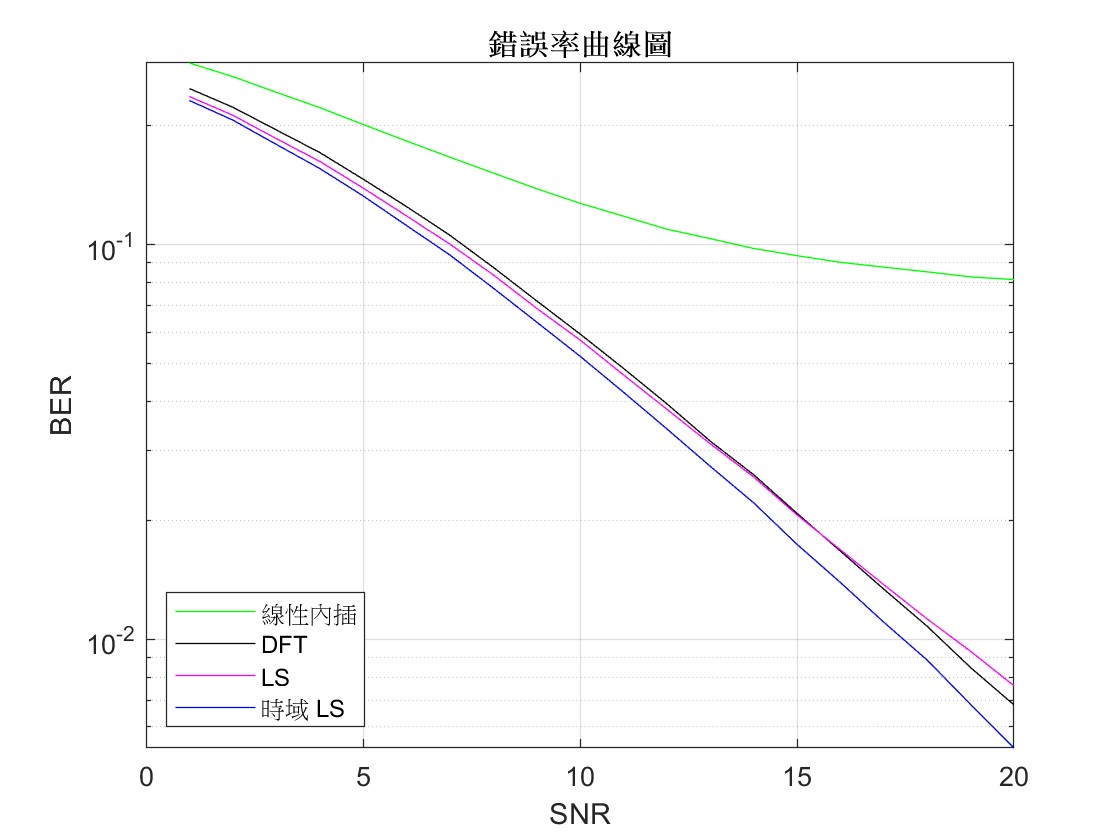
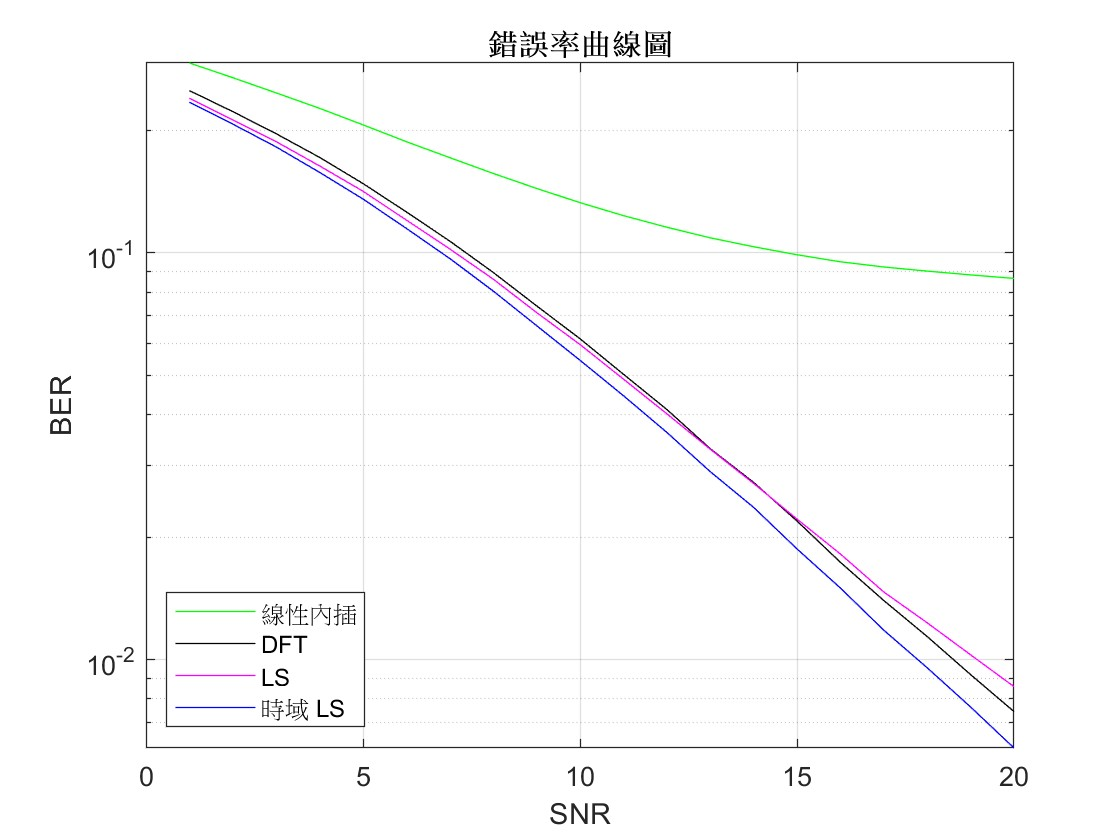
readme數值修正

diff --git a/LS_LS2.m b/LS_LS2.m
@@ -1,5 +1,5 @@
 % 傳統 LS 與時域 LS：不同最大通道延遲點數比較
-% 衰減係數 α = 0.001，最大通道延遲 100 / 80 / 30 點，兩種方法的修正參數皆為 λ = 10^-3
+% 衰減係數 α = 0.001，最大通道延遲 100 / 80 / 30 點，兩種方法的修正參數皆為 λ = 10^-5
 % 輸出：傳統 LS、時域 LS 各一張 BER vs. SNR（三種延遲點數）
 clear
 clc
@@ -160,10 +160,11 @@ for j=1:20
         h_ls=zeros(Le,num);
         for i=1:num
             hn([1:141],1)=H3(i,[1:141]);
-            h_ls([1:Le],i)=inv(f'*f+10^-3.*eye(Le))*f'*hn;
+            h_ls([1:Le],i)=inv(f'*f+10^-5.*eye(Le))*f'*hn;
             h_LS=h_ls.';
         end
-        h_LS([1:num],[142:length1])=0;%估出來的點數為100點 我們補0到2048點 做FFT
+        h_LS([1:num],[101:length1])=0;%估出來的點數為100點 我們補0到2048點 做FFT
+
         for i = 1:num
             fft_h_LS(i,[1:length1]) = fft(h_LS(i,[1:length1]));
         end
@@ -190,12 +191,12 @@ for j=1:20
             ifft_ysignal(i,[1:2048])=ifft(ysignal(i,[1:2048]));
             yy([1:2048],1)=ifft_ysignal(i,[1:2048]); %出通道後的所有信號(時域)
             %有修正參數
-            hp([1:100],i)=inv(x_bar1(:,:,i)'*x_bar1(:,:,i)+10^-3.*eye(100))*x_bar1(:,:,i)'*yy;
+            hp([1:100],i)=inv(x_bar1(:,:,i)'*x_bar1(:,:,i)+10^-5.*eye(100))*x_bar1(:,:,i)'*yy;
             hp_ls=hp.';
 
         end
         hp_ls([1:20],[101:2048])=0;% 估出來的點數為100點 我們補0到2048點 做FFT
-        hp_ls0([1:20],[101:2048])=0;
+        
         for i = 1:num
             fft_HP_LS(i,[1:2048]) = fft(hp_ls(i,[1:2048]));
         end
@@ -278,10 +279,10 @@ for j=1:20
         h_ls=zeros(Le,num);
         for i=1:num
             hn([1:141],1)=H3(i,[1:141]);
-            h_ls([1:Le],i)=inv(f'*f+10^-3.*eye(Le))*f'*hn;
+            h_ls([1:Le],i)=inv(f'*f+10^-5.*eye(Le))*f'*hn;
             h_LS=h_ls.';
         end
-        h_LS([1:num],[142:length1])=0;%估出來的點數為100點 我們補0到2048點 做FFT
+        h_LS([1:num],[81:length1])=0;%估出來的點數為80點 我們補0到2048點 做FFT
         for i = 1:num
             fft_h_LS(i,[1:length1]) = fft(h_LS(i,[1:length1]));
         end
@@ -308,12 +309,12 @@ for j=1:20
             ifft_ysignal(i,[1:2048])=ifft(ysignal(i,[1:2048]));
             yy([1:2048],1)=ifft_ysignal(i,[1:2048]); %出通道後的所有信號(時域)
             %有修正參數
-            hp([1:80],i)=inv(x_bar2(:,:,i)'*x_bar2(:,:,i)+10^-3.*eye(80))*x_bar2(:,:,i)'*yy;
+            hp([1:80],i)=inv(x_bar2(:,:,i)'*x_bar2(:,:,i)+10^-5.*eye(80))*x_bar2(:,:,i)'*yy;
             hp_ls=hp.';
 
         end
-        hp_ls([1:20],[81:2048])=0;% 估出來的點數為100點 我們補0到2048點 做FFT
-        hp_ls0([1:20],[101:2048])=0;
+        hp_ls([1:20],[81:2048])=0;% 估出來的點數為80點 我們補0到2048點 做FFT
+        
         for i = 1:num
             fft_HP_LS(i,[1:2048]) = fft(hp_ls(i,[1:2048]));
         end
@@ -395,10 +396,10 @@ for j=1:20
         h_ls=zeros(Le,num);
         for i=1:num
             hn([1:141],1)=H3(i,[1:141]);
-            h_ls([1:Le],i)=inv(f'*f+10^-3.*eye(Le))*f'*hn;
+            h_ls([1:Le],i)=inv(f'*f+10^-5.*eye(Le))*f'*hn;
             h_LS=h_ls.';
         end
-        h_LS([1:num],[142:length1])=0;%估出來的點數為100點 我們補0到2048點 做FFT
+        h_LS([1:num],[31:length1])=0;%估出來的點數為30點 我們補0到2048點 做FFT
         for i = 1:num
             fft_h_LS(i,[1:length1]) = fft(h_LS(i,[1:length1]));
         end
@@ -425,11 +426,11 @@ for j=1:20
             ifft_ysignal(i,[1:2048])=ifft(ysignal(i,[1:2048]));
             yy([1:2048],1)=ifft_ysignal(i,[1:2048]); %出通道後的所有信號(時域)
             %有修正參數
-            hp([1:30],i)=inv(x_bar3(:,:,i)'*x_bar3(:,:,i)+10^-3.*eye(30))*x_bar3(:,:,i)'*yy;
+            hp([1:30],i)=inv(x_bar3(:,:,i)'*x_bar3(:,:,i)+10^-5.*eye(30))*x_bar3(:,:,i)'*yy;
             hp_ls=hp.';
 
         end
-        hp_ls([1:20],[31:2048])=0;% 估出來的點數為100點 我們補0到2048點 做FFT
+        hp_ls([1:20],[31:2048])=0;% 估出來的點數為30點 我們補0到2048點 做FFT
         for i = 1:num
             fft_HP_LS(i,[1:2048]) = fft(hp_ls(i,[1:2048]));
         end

diff --git a/OFDM_100p_channel.m b/OFDM_100p_channel.m
@@ -1,5 +1,5 @@
 % 主程式 OFDM 通道估測：四種方法 BER 比較（最大通道延遲 100 點）
-% 20 個 QPSK OFDM 符元（N = 2048、CP = 128、每 12 個子載波一個領航），20 組隨機多路徑通道 x SNR 1～20 dB；比較線性內插、DFT、傳統 LS（λ = 10^-5）、時域 LS（λ = 10^-3 與無修正參數）。衰減係數 α 在 g = exp(-α*[0:99]).*n 修改
+% 20 個 QPSK OFDM 符元（N = 2048、CP = 128、每 12 個子載波一個領航），20 組隨機多路徑通道 x SNR 1～20 dB；比較線性內插、DFT、傳統 LS（λ = 10^-5）、時域 LS（λ = 10^-5 與無修正參數）。衰減係數 α 在 g = exp(-α*[0:99]).*n 修改
 % 輸出：BER vs. SNR
 clear
 clc
@@ -77,7 +77,7 @@ end
 %20個通道
 for j = 1:20
     n = randn(1,100) + 1i * randn(1, 100);
-    g = exp(-0.05*[0:99]).*n;
+    g = exp(-0.001*[0:99]).*n;
     C = conv(c,g);
     E = (C*C')/43619;
     db = 1:20;
@@ -193,7 +193,7 @@ for j = 1:20
         h_ls=zeros(Le,OFDM_symbol_num);
         for i=1:OFDM_symbol_num
             hn([1:141],1)=H3(i,[1:141]);
-            h_ls([1:Le],i)=inv(f'*f+10^-3.*eye(Le))*f'*hn;
+            h_ls([1:Le],i)=inv(f'*f+10^-5.*eye(Le))*f'*hn;
             h_LS=h_ls.';
         end
         h_LS([1:OFDM_symbol_num],[101:OFDM_symbol_length])=0;%估出來的點數為100點 我們補0到2048點 做FFT
@@ -222,7 +222,7 @@ for j = 1:20
             ifft_ysignal(i,[1:2048])=ifft(ysignal(i,[1:2048]));
             yy([1:2048],1)=ifft_ysignal(i,[1:2048]); %出通道後的所有信號(時域)
             %有修正參數
-            hp([1:100],i)=inv(x_bar(:,:,i)'*x_bar(:,:,i)+10^-3.*eye(100))*x_bar(:,:,i)'*yy;
+            hp([1:100],i)=inv(x_bar(:,:,i)'*x_bar(:,:,i)+10^-5.*eye(100))*x_bar(:,:,i)'*yy;
             hp_ls=hp.';
             %沒有修正參數
             hp0([1:100],i)=inv(x_bar(:,:,i)'*x_bar(:,:,i))*x_bar(:,:,i)'*yy;

diff --git a/Interp_DFT.m b/Interp_DFT.m
@@ -1,6 +1,6 @@
-% 主程式 OFDM 通道估測：四種方法 BER 比較（最大通道延遲 100 點）
-% 20 個 QPSK OFDM 符元（N = 2048、CP = 128、每 12 個子載波一個領航），20 組隨機多路徑通道 x SNR 1～20 dB；比較線性內插、DFT、傳統 LS（λ = 10^-5）、時域 LS（λ = 10^-3 與無修正參數）。衰減係數 α 在 g = exp(-α*[0:99]).*n 修改
-% 輸出：BER vs. SNR
+% 線性內插法與 DFT 法：不同最大通道延遲點數比較
+% 衰減係數 α = 0.001，最大通道延遲 100 / 80 / 30 點，DFT 法時域保留前 141 點
+% 輸出：線性內插法、DFT 法各一張 BER vs. SNR（三種延遲點數）
 clear
 clc
 

diff --git a/README.md b/README.md
@@ -28,6 +28,7 @@
 | 通道模型 | 通道點數為 L 的多路徑通道（通道脈衝響應 $h[0] \sim h[L-1]$），每個通道點為複高斯隨機變數並乘上指數衰減包絡 $e^{-\alpha n}$ |
 | 衰減係數 α | 0.05（能量集中在前幾個通道點）/ 0.001（各通道點能量接近，頻率選擇性強） |
 | 通道最大延遲點數 L | 30 / 80 / 100 點 |
+| 修正參數 λ（兩種 LS 法） | 10⁻⁵ |
 | SNR 範圍 | 1–20 dB |
 
 ## 通道估測方法
@@ -63,7 +64,7 @@
 </div>
 
 - **α = 0.05**：通道能量集中在前幾個通道點，頻率響應變化平緩，四種方法表現接近；時域 LS 法略佳，DFT 法略差。
-- **α = 0.001**：各通道點能量相近，通道頻率選擇性強。線性內插法無法追上快速變化的頻率響應，BER 在高 SNR 時出現約 8×10⁻² 的錯誤平台；DFT 法與 LS 法仍能隨 SNR 下降，其中**時域 LS 法表現最好**（20 dB 時約 5×10⁻³）。
+- **α = 0.001**：各通道點能量相近，通道頻率選擇性強。線性內插法無法追上快速變化的頻率響應，BER 在高 SNR 時出現約 8.5×10⁻² 的錯誤平台；DFT 法與 LS 法仍能隨 SNR 下降，其中**時域 LS 法表現最好**（20 dB 時約 6×10⁻³）。
 
 ### 2. 頻率響應估測
 
@@ -83,9 +84,11 @@
   <img src="figures/time_ls_regularization.jpg" alt="時域 LS 修正參數比較" width="340">
 </p>
 
-由於保護頻帶使可用的領航信號有限，當通道延遲點數越大，時域 LS 的矩陣 $\bar{\mathbf{X}}^H \bar{\mathbf{X}}$ 越接近奇異，求反矩陣時數值不穩定。不加修正參數時，BER 停留在約 1.3×10⁻¹ 幾乎不再下降；加上修正參數 λ 後，20 dB 時 BER 可降至約 6×10⁻³，可見修正參數對此方法非常關鍵。
+由於保護頻帶使可用的領航信號有限，當通道延遲點數越大，時域 LS 的矩陣 $\bar{\mathbf{X}}^H \bar{\mathbf{X}}$ 越接近奇異，求反矩陣時數值不穩定。不加修正參數時，BER 停留在約 1.5×10⁻¹ 幾乎不再下降；加上修正參數 λ = 10⁻⁵ 後，20 dB 時 BER 可降至約 6.5×10⁻³，可見修正參數對此方法非常關鍵。
 
 ### 4. 不同最大通道延遲點數之比較（30 / 80 / 100 點）
+
+此組模擬的衰減係數皆為 α = 0.001。
 
 <div align="center">
 
@@ -97,9 +100,9 @@
 
 </div>
 
-- **線性內插法**對通道延遲最敏感：30 點時 20 dB 的 BER 約 7.5×10⁻³，80 點升至約 4×10⁻²，100 點時 BER 約停在 8.5×10⁻² 幾乎不再下降。通道延遲越長，頻率響應變化越快，領航間距 12 個子載波已不足以靠線性內插追上。
-- **DFT 法**幾乎不受通道延遲影響，三條曲線非常接近（20 dB 時約 8×10⁻³ ~ 1×10⁻²）。
-- **傳統 LS 法**與**時域 LS 法**皆是通道點數越少、BER 越低，但差距不大，三種延遲下都能隨 SNR 持續下降；其中時域 LS 法在 30 點時表現最佳（20 dB 時約 4.5×10⁻³）。
+- **線性內插法**對通道延遲最敏感：30 點時 20 dB 的 BER 約 6×10⁻³，80 點升至約 4×10⁻²，100 點時 BER 約停在 8.5×10⁻² 幾乎不再下降。通道延遲越長，頻率響應變化越快，領航間距 12 個子載波已不足以靠線性內插追上。
+- **DFT 法**幾乎不受通道延遲影響，三條曲線非常接近（20 dB 時約 7.5×10⁻³ ~ 8.5×10⁻³）。
+- **傳統 LS 法**與**時域 LS 法**三種延遲下都能隨 SNR 持續下降，且通道點數越少 BER 越低：30 點時兩種方法在 20 dB 皆約 4.5×10⁻³，明顯優於 80 / 100 點（傳統 LS 約 8×10⁻³ ~ 9×10⁻³，時域 LS 約 6.5×10⁻³，且 80 與 100 點兩條曲線幾乎重疊）。
 
 ## 結論
 
